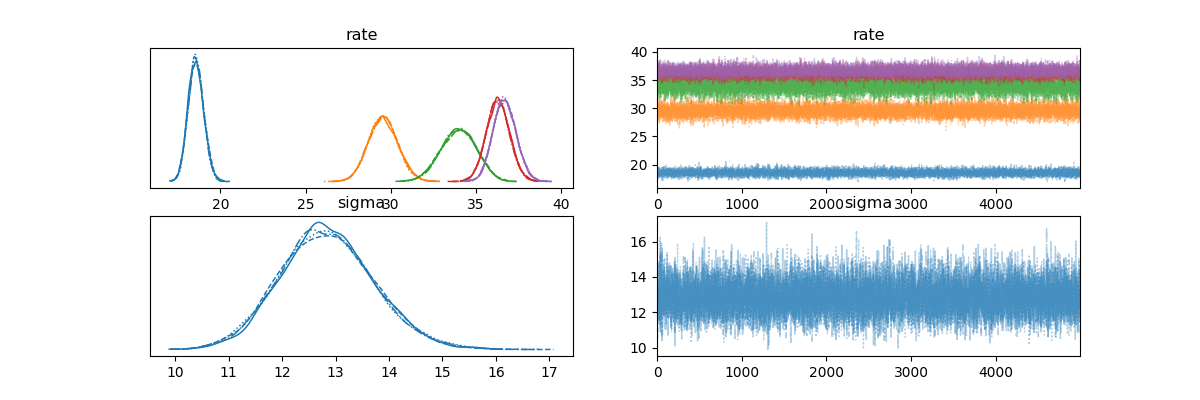
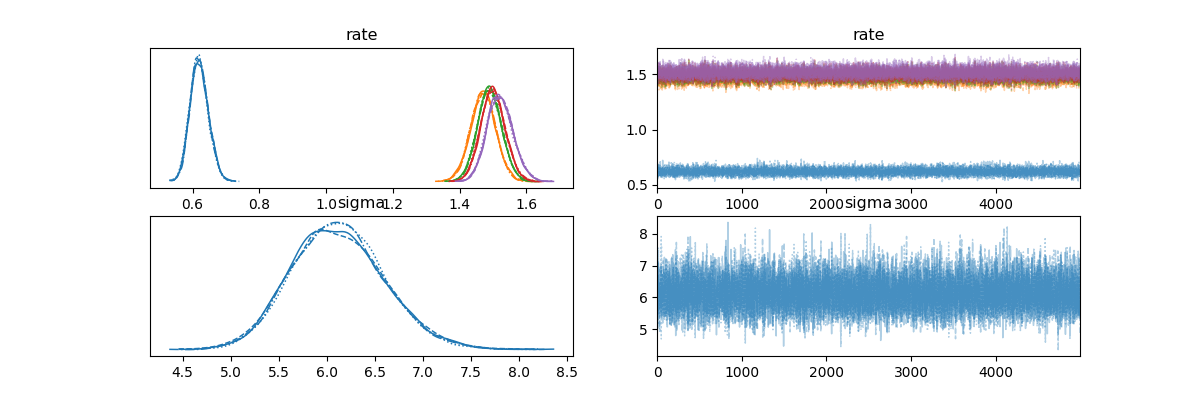
fix with suffixes

diff --git a/main.py b/main.py
@@ -12,7 +12,7 @@ if __name__ == "__main__":
             pH_array, admissions_lambda_dict = train_daily_model_ages(args.region, verbose=True)
             print(f' pH es {pH_array}, admissions_lambda es {admissions_lambda_dict}\n')
             estimate_daily_switchpoints_ages(region=args.region, admissions_lambda_dict=admissions_lambda_dict,
-                                        n_switchpoints=args.n_switchpoints,verbose=True,estimate_sw=args.switchpoints)
+                                        n_switchpoints=args.n_switchpoints,verbose=True, estimate_sw=args.switchpoints)
         # Hospitalization
         else:
             pH, admissions_lambda = train_daily_model(args.region, verbose=True, aggregate_week=args.weekly)

diff --git a/train_ages.py b/train_ages.py
@@ -54,7 +54,7 @@ def train_daily_model_ages(region, start_date='2020-06-29', end_date='2020-12-01
                     }
 
 
-                    plot_daily_pH_training(data, start_date, end_date,region, edad)
+                    plot_daily_pH_training(data, start_date, end_date,region, edad, aggregate_week=aggregate_week)
 
                 mean_pH = float(idata.posterior.pH.stack(sample=('chain', 'draw')).mean())
                 mean_admission_lambda = float(idata.posterior.admissions_lambda.stack(sample=('chain', 'draw')).mean())

diff --git a/utils.py b/utils.py
@@ -133,7 +133,9 @@ def load_CT(start_date, end_date, aggregate_week, deaths):
     data = data.groupby('DATA').sum(['CASOS_CONFIRMAT', 'INGRESSOS_TOTAL'])
 
     if aggregate_week:
-        data = data.groupby(pd.Grouper(freq='W-MON'))[['num_casos', 'num_hosp', 'num_def']].sum()
+        data['CASOS_CONFIRMAT'] = data['CASOS_CONFIRMAT'].rolling(window=7, min_periods=1).mean()
+        data['INGRESSOS_TOTAL'] = data['INGRESSOS_TOTAL'].rolling(window=7, min_periods=1).mean()
+
 
     cases = data['CASOS_CONFIRMAT']
     if not deaths:

diff --git a/utils_ages.py b/utils_ages.py
@@ -65,7 +65,8 @@ def load_CT_ages(start_date, end_date, aggregate_week, deaths):
 
     # Extract values
     if aggregate_week:
-        data = data.groupby(pd.Grouper(freq='W-MON'))[['num_casos', 'num_hosp', 'num_def']].sum()
+        data['num_casos'] = data['num_casos'].rolling(window=7, min_periods=1).mean()
+        data['num_hosp'] = data['num_hosp'].rolling(window=7, min_periods=1).mean()
     data = data.reset_index()
     cases_per_age = data[['num_casos', 'grupo_edad']] 
 
